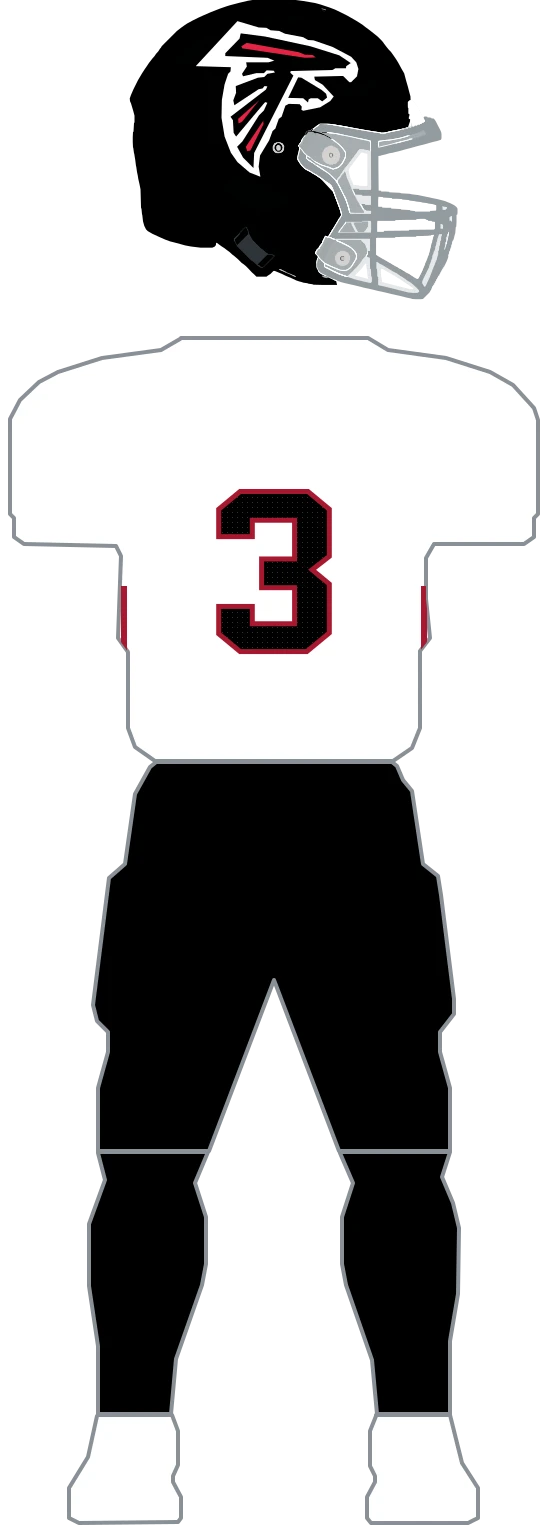
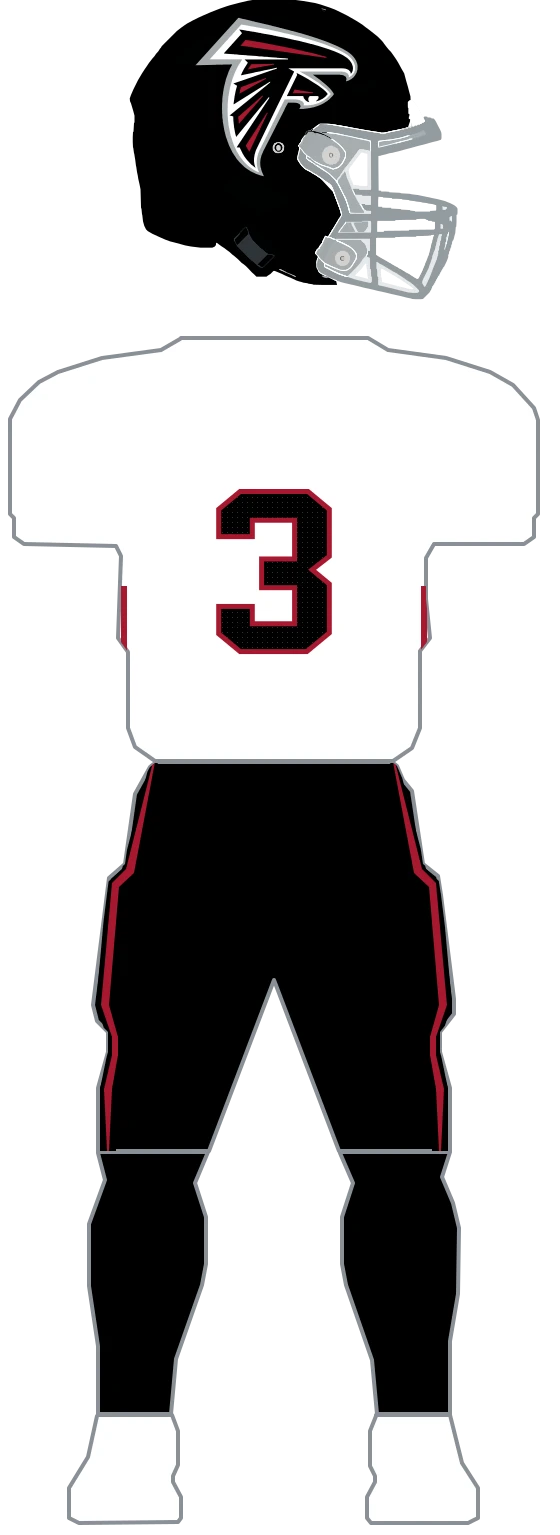
fix(uniforms): complete Falcons accuracy pass (#793)

diff --git a/web/lib/uniforms/teams/falcons.ts b/web/lib/uniforms/teams/falcons.ts
@@ -34,10 +34,14 @@ export const FALCONS_SIDE_STRIPE_RIGHT = 'M441,631 H447 V806 H441 Z';
 // All three archived kits wear a black shell, so the body layer is redundant on every one of them
 // today. It is authored anyway: it costs one path and it is what keeps the mark correct if a
 // non-black shell is ever added, which is exactly the check Jacksonville's spots failed.
-export const FALCONS_DECAL_RED = '#E12444'; // sampled (225,36,68)
+//
+// The regenerated standalone mark adds the silver outer rim and preserves the full red detail set.
+export const FALCONS_DECAL_RED = '#A71930'; // standalone mark's red
+export const FALCONS_DECAL_SILVER_PATH =
+  'M355.9,103.7 L357.5,103.7 L364.6,105.7 L370.6,106.8 L384.8,110.5 L386.1,110.5 L389.7,111.6 L422.4,119.2 L424.6,120.0 L430.3,121.2 L440.4,124.0 L442.6,124.2 L443.7,124.8 L446.9,125.4 L448.0,125.9 L450.2,126.2 L451.3,126.8 L453.5,127.1 L455.7,127.9 L456.7,127.9 L463.0,129.9 L464.1,129.9 L488.1,136.6 L509.9,143.4 L527.1,149.3 L539.6,154.1 L554.6,160.5 L566.3,166.4 L574.8,171.5 L582.2,177.1 L587.6,183.0 L591.4,188.9 L593.9,195.4 L594.7,200.4 L594.4,207.5 L593.3,210.6 L593.1,212.5 L589.5,219.0 L586.8,222.4 L582.4,226.0 L576.7,229.1 L572.1,230.5 L571.5,230.5 L571.5,230.0 L572.6,225.5 L571.0,221.5 L565.8,218.4 L557.4,217.3 L505.8,217.3 L505.5,217.6 L519.2,227.4 L532.8,238.7 L539.4,245.1 L543.4,249.9 L547.0,255.3 L547.3,256.4 L544.3,260.3 L538.3,266.5 L534.4,269.6 L527.1,274.4 L521.6,277.2 L514.0,280.3 L507.7,282.3 L499.0,284.2 L485.4,285.9 L478.0,285.9 L480.5,281.4 L480.5,280.0 L479.1,276.6 L474.5,274.1 L472.6,273.8 L467.1,273.3 L455.7,273.3 L450.5,282.8 L447.5,289.3 L406.3,370.0 L402.2,379.5 L400.3,387.7 L400.3,390.8 L400.0,391.1 L400.0,396.7 L400.6,401.8 L401.7,405.4 L401.7,406.5 L403.6,412.2 L407.4,420.6 L398.7,418.3 L391.6,415.8 L380.7,410.5 L372.5,405.1 L368.1,401.8 L358.3,392.2 L353.1,386.0 L344.4,372.8 L337.6,359.0 L331.6,342.4 L328.1,328.7 L325.1,311.2 L325.1,308.7 L324.2,303.4 L324.0,295.5 L323.7,295.2 L323.7,287.0 L323.4,286.8 L323.7,273.3 L324.0,273.0 L324.2,264.8 L325.1,257.2 L327.2,243.5 L331.6,225.7 L337.0,210.6 L340.6,203.0 L343.9,197.1 L343.6,196.8 L339.5,196.8 L339.2,197.1 L325.6,197.1 L325.3,197.4 L312.2,197.4 L312.0,197.6 L270.5,198.5 L355.9,104.0 Z';
 export const FALCONS_DECAL_SILHOUETTE_PATH =
-  'M354.4,110.3 L396.8,122.9 L412.1,123.6 L420.5,128.5 L437.8,129.9 L449.7,135.5 L485.8,142.4 L495.5,148.0 L506.6,148.7 L544.9,162.0 L581.7,181.5 L592.1,192.7 L596.3,205.9 L593.5,220.6 L581.7,232.4 L578.2,232.4 L565.7,219.9 L508.0,221.3 L509.4,228.2 L524.7,237.3 L546.9,261.0 L540.0,270.1 L519.8,282.6 L485.8,289.6 L482.3,287.5 L483.0,281.3 L478.8,276.4 L457.3,275.7 L450.3,279.2 L442.7,301.5 L437.1,305.7 L430.2,325.2 L424.6,330.1 L417.7,348.9 L399.6,378.9 L396.8,401.2 L400.3,421.5 L378.8,413.1 L354.4,392.2 L341.2,373.3 L328.7,341.2 L322.5,303.6 L323.2,268.0 L328.7,236.6 L335.7,215.7 L340.5,210.8 L341.2,202.4 L271.0,200.3 L353.7,111.0 Z';
+  'M361.9,117.2 L374.9,119.2 L376.6,119.7 L386.1,121.2 L389.1,122.0 L405.2,124.8 L421.8,128.2 L423.2,128.7 L425.9,129.0 L432.5,130.7 L433.8,130.7 L449.9,134.7 L451.3,134.7 L482.6,142.5 L487.8,144.2 L488.9,144.2 L490.8,145.1 L493.8,145.6 L509.9,150.4 L530.1,157.1 L549.4,164.7 L559.8,169.5 L568.8,174.3 L576.4,179.6 L583.0,186.1 L587.1,192.6 L589.5,199.3 L589.8,206.9 L587.6,213.4 L583.0,219.0 L577.3,222.9 L577.0,218.2 L574.5,214.8 L572.9,213.7 L568.0,211.7 L565.0,211.7 L562.3,211.1 L479.9,211.1 L479.6,211.4 L498.2,221.8 L517.3,234.2 L531.4,245.4 L538.0,252.2 L541.0,256.1 L535.3,262.3 L531.4,265.7 L523.3,271.0 L518.1,273.5 L512.6,275.5 L506.4,277.2 L499.5,278.3 L487.0,278.9 L487.3,275.0 L484.8,271.3 L477.7,267.6 L475.3,267.6 L470.6,266.8 L449.1,266.8 L448.8,267.1 L419.4,326.1 L418.3,328.9 L398.9,368.0 L395.9,375.0 L393.5,384.9 L392.9,392.8 L393.2,393.0 L393.2,397.3 L394.0,402.0 L395.9,408.8 L397.6,412.7 L393.8,411.3 L385.9,407.1 L375.5,399.5 L366.8,390.8 L358.9,380.4 L353.1,370.8 L348.5,361.3 L345.0,352.3 L340.3,337.1 L336.8,319.4 L335.4,308.4 L335.4,304.8 L334.9,300.5 L334.6,282.5 L334.9,282.3 L334.9,276.9 L335.1,276.6 L335.1,273.0 L336.2,262.0 L339.2,244.6 L343.9,227.4 L349.6,212.3 L355.9,199.6 L364.0,186.9 L363.8,186.7 L298.9,186.7 L361.6,117.5 Z';
 export const FALCONS_DECAL_BODY_PATH =
-  'M361.4,134.8 L409.3,141.0 L500.4,160.6 L558.1,178.7 L581.0,194.1 L572.0,200.3 L571.3,204.5 L550.4,204.5 L544.2,208.0 L460.8,210.1 L460.1,213.6 L466.3,219.2 L387.8,374.0 L386.4,404.0 L365.6,383.1 L353.7,361.5 L364.2,351.0 L397.5,298.7 L407.3,288.9 L414.2,273.6 L410.0,272.2 L407.3,275.0 L351.7,341.2 L346.8,333.6 L345.4,308.5 L340.5,301.5 L411.4,247.1 L414.2,240.8 L408.6,240.1 L404.5,245.0 L396.8,246.4 L348.2,278.5 L346.1,268.7 L351.7,253.4 L351.0,240.1 L395.4,223.4 L408.0,222.0 L414.2,215.7 L429.5,212.9 L426.7,209.4 L412.8,208.7 L407.3,214.3 L392.0,214.3 L365.6,220.6 L363.5,215.7 L373.2,201.0 L371.8,192.7 L416.3,192.7 L428.1,189.2 L414.2,183.6 L330.1,180.1 L330.1,174.5 L358.6,145.2 L360.7,135.5 Z M476.1,222.7 L482.3,223.4 L522.6,247.8 L531.7,255.4 L533.7,263.1 L524.0,270.8 L515.0,264.5 L501.1,264.5 L496.9,266.6 L495.5,272.9 L485.8,264.5 L455.9,263.8 L475.4,223.4 Z';
+  'M358.0,127.1 L365.1,127.9 L375.2,129.9 L377.1,129.9 L380.4,130.7 L388.6,131.8 L398.1,133.8 L399.8,133.8 L402.8,134.7 L425.1,138.6 L427.8,139.4 L430.8,139.7 L432.2,140.3 L449.9,143.6 L456.5,145.3 L457.8,145.3 L460.3,146.2 L478.8,150.1 L500.1,155.5 L501.2,156.0 L502.3,156.0 L516.5,160.0 L534.4,165.6 L546.2,169.8 L557.1,174.3 L565.5,178.5 L574.0,184.1 L579.2,189.2 L582.7,194.5 L584.9,200.2 L585.4,204.4 L584.9,209.4 L583.3,213.1 L581.1,215.6 L580.3,211.7 L576.7,207.8 L571.5,205.5 L565.5,204.7 L457.0,204.7 L456.7,204.9 L457.0,205.2 L466.6,210.3 L467.6,211.1 L467.6,211.7 L431.4,285.6 L391.3,368.6 L388.6,377.6 L387.5,385.5 L387.5,391.1 L388.3,396.7 L390.5,403.7 L381.5,396.7 L372.8,387.1 L368.1,380.7 L364.9,375.3 L359.1,363.5 L358.6,363.0 L352.9,362.7 L352.9,362.4 L417.8,264.5 L418.0,264.0 L417.8,262.6 L417.5,262.3 L416.9,262.6 L351.8,341.9 L351.5,341.9 L351.5,340.7 L349.9,334.8 L347.7,322.8 L346.3,309.8 L346.0,301.1 L345.2,300.5 L344.1,300.5 L340.9,299.4 L338.7,299.1 L338.7,298.9 L419.1,233.6 L419.7,233.1 L419.9,231.7 L419.7,231.4 L418.8,231.7 L347.1,276.6 L346.6,276.6 L346.9,273.8 L348.8,260.1 L351.2,248.2 L353.7,239.5 L346.3,235.0 L427.0,207.2 L427.8,207.2 L430.3,206.1 L431.1,206.1 L432.5,205.5 L433.6,203.8 L433.3,203.5 L431.1,203.8 L423.2,205.8 L420.5,206.1 L419.1,206.6 L407.1,208.9 L404.4,209.7 L403.0,209.7 L400.6,210.6 L389.7,212.5 L388.3,213.1 L361.3,218.7 L363.8,212.8 L367.6,205.5 L375.2,193.4 L368.7,186.9 L455.1,186.9 L455.9,185.5 L455.1,185.0 L452.4,185.0 L452.1,184.7 L433.8,183.6 L433.6,183.3 L419.7,182.4 L412.8,181.6 L408.8,181.6 L402.2,180.8 L398.1,180.8 L391.3,179.9 L373.0,178.8 L372.8,178.5 L358.9,177.7 L352.0,176.8 L348.0,176.8 L347.7,176.5 L334.1,175.7 L327.0,174.9 L363.5,134.4 L358.0,127.3 Z M472.3,213.7 L481.3,218.2 L494.4,225.5 L515.9,239.0 L527.4,247.7 L532.0,252.2 L535.0,256.1 L530.1,261.5 L524.9,265.4 L518.1,268.8 L510.7,271.0 L514.8,267.1 L516.5,264.3 L516.7,263.7 L516.5,260.9 L514.5,260.1 L499.0,260.1 L496.8,262.9 L496.0,265.7 L496.3,268.8 L498.2,272.4 L493.8,271.0 L490.8,268.8 L487.3,264.5 L485.9,260.1 L453.2,260.1 L473.6,218.4 L473.6,217.3 L472.6,213.9 Z';
 export const FALCONS_DECAL_STREAKS_PATH =
-  'M372.5,153.6 L476.8,172.4 L489.3,177.3 L505.2,178.0 L510.8,182.9 L489.3,183.6 L364.2,164.8 L362.1,160.6 L371.8,154.3 Z M405.9,309.9 L406.6,316.1 L380.2,369.2 L373.9,370.5 L371.1,361.5 L405.2,310.6 Z M398.2,268.0 L363.5,311.9 L356.5,314.7 L355.8,305.7 L397.5,268.7 Z';
+  'M370.6,147.9 L381.2,149.3 L382.9,149.8 L386.1,150.1 L413.1,154.9 L422.1,156.9 L423.8,156.9 L432.5,158.8 L439.6,160.0 L440.9,160.5 L448.0,161.6 L452.1,162.8 L453.5,162.8 L456.2,163.6 L457.6,163.6 L474.5,167.5 L475.8,167.5 L478.3,168.4 L479.6,168.4 L482.1,169.2 L484.6,169.5 L487.0,170.4 L504.7,174.3 L524.1,179.4 L532.8,181.9 L532.3,183.3 L529.8,183.6 L520.0,181.9 L509.9,180.8 L506.1,179.9 L504.2,179.9 L498.2,178.8 L480.5,176.5 L478.6,176.0 L476.4,176.0 L472.6,175.1 L468.5,174.9 L464.7,174.0 L462.5,174.0 L445.0,171.2 L442.8,171.2 L439.0,170.4 L434.9,170.1 L431.1,169.2 L428.9,169.2 L423.2,168.1 L421.3,168.1 L417.2,167.3 L405.5,165.9 L403.6,165.3 L401.4,165.3 L397.6,164.5 L395.4,164.5 L389.7,163.3 L387.5,163.3 L383.7,162.5 L381.5,162.5 L379.6,161.9 L360.5,159.4 L370.3,148.1 Z M413.7,292.7 L414.8,294.4 L414.5,295.2 L413.9,295.8 L378.5,371.1 L378.2,371.4 L376.6,369.1 L370.9,359.3 L413.7,292.9 Z M404.9,258.6 L405.2,260.6 L404.4,261.7 L358.6,314.3 L357.5,315.4 L357.2,314.9 L355.9,301.7 L404.7,258.9 Z M411.2,223.8 L412.0,223.8 L411.2,225.7 L358.6,255.3 L358.3,255.3 L358.9,252.2 L361.0,242.6 L367.0,240.1 L370.9,239.0 L377.7,236.2 L410.9,224.1 Z M424.6,195.4 L428.4,195.4 L427.6,196.8 L426.8,197.4 L403.8,201.3 L400.8,202.1 L399.2,202.1 L376.3,206.6 L375.5,206.6 L375.8,206.1 L381.5,197.1 L382.0,196.5 L424.3,195.7 Z M468.7,247.1 L484.0,249.6 L485.9,249.6 L489.5,250.5 L491.4,250.5 L494.9,251.3 L498.7,251.6 L502.3,252.5 L505.8,252.7 L505.3,254.4 L464.9,254.4 L468.5,247.4 Z';

diff --git a/web/lib/uniforms/teams/falcons.parts.ts b/web/lib/uniforms/teams/falcons.parts.ts
@@ -1,18 +1,11 @@
-// Atlanta authored as composable parts. Geometry is imported unchanged from falcons.ts — this
-// file only restates WHICH parts each kit combines, and names every color from the team palette
-// instead of the kit row's shifting primary/secondary/accent.
-//
-// What the flat definition was hiding: all three Atlanta kits wear the SAME helmet (black shell,
-// the fixed white/black/red falcon decal) and the SAME black pants, and differ only in the
-// jersey. The flat form spelled the helmet decal and the side-seam piping set out in every kit's
-// layer array, three times over.
-//
-// The away kit's black shell/pants come through a literal '#000000' in the flat form because its
-// curated palette resolves secondary AND accent to the brand red (#A71930); here it is one palette
-// entry shared by all three kits, and the question cannot arise.
+// Atlanta's shared helmet, jerseys and pants for the native uniform archive (DEP-478).
+// The four-color falcon is fixed helmet art. Home and away retain canonical black pants
+// while exposing the reference's white option; the historical red alternate remains black.
+// Colors belong to named parts, independent of the jersey-relative palette slots.
 
 import {
   FALCONS_DECAL_BODY_PATH,
+  FALCONS_DECAL_SILVER_PATH,
   FALCONS_DECAL_RED,
   FALCONS_DECAL_SILHOUETTE_PATH,
   FALCONS_DECAL_STREAKS_PATH,
@@ -46,6 +39,7 @@ const HELMET_BLACK_FALCON: UniformPart = {
   base: 'black',
   facemask: 'silver',
   layers: [
+    fill('falcons-decal-silver', 'helmet', FALCONS_DECAL_SILVER_PATH, 'silver'),
     fill('falcons-decal-silhouette', 'helmet', FALCONS_DECAL_SILHOUETTE_PATH, 'white'),
     fill('falcons-decal-body', 'helmet', FALCONS_DECAL_BODY_PATH, 'black'),
     fill('falcons-decal-streaks', 'helmet', FALCONS_DECAL_STREAKS_PATH, 'decalRed'),
@@ -75,14 +69,46 @@ const JERSEY_RED: UniformPart = {
   number: { fill: 'white', outline: 'black', outlineWidth: 10 },
 };
 
-// Plain black pants. Atlanta's construction is the sparest of any team: no stripe, no band.
-const PANTS_BLACK: UniformPart = { base: 'black', layers: [] };
+// The 2025 reference side swatch has a tapered red center with black keylines. Follow the
+// mannequin leg edge and stop at the pant hem (y=1196), before the socks begin.
+function pantsStripes(): PartLayer[] {
+  return [
+    fill(
+      'falcons-pants-backing-left',
+      'leg-left',
+      'M170,807 L178,807 L158,918 L143,932 L132,1050 L143,1082 L143,1100 L136,1134 L136,1196 L120,1196 L120,1134 L127,1100 L127,1082 L116,1050 L127,928 L142,914 Z',
+      'black'
+    ),
+    fill(
+      'falcons-pants-backing-right',
+      'leg-right',
+      'M418,807 L410,807 L430,918 L445,932 L456,1050 L445,1082 L445,1100 L452,1134 L452,1196 L468,1196 L468,1134 L461,1100 L461,1082 L472,1050 L461,928 L446,914 Z',
+      'black'
+    ),
+    fill(
+      'falcons-pants-stripe-left',
+      'leg-left',
+      'M173,807 L175,807 L154,918 L139,932 L129,1050 L138,1082 L138,1100 L132,1134 L129,1196 L127,1196 L124,1134 L132,1100 L132,1082 L121,1050 L132,928 L146,914 Z',
+      'red'
+    ),
+    fill(
+      'falcons-pants-stripe-right',
+      'leg-right',
+      'M415,807 L413,807 L434,918 L449,932 L459,1050 L450,1082 L450,1100 L456,1134 L459,1196 L461,1196 L464,1134 L456,1100 L456,1082 L467,1050 L456,928 L442,914 Z',
+      'red'
+    ),
+  ];
+}
+
+// Black pants are canonical; white pants are the alternate option shown with the same side seam.
+const PANTS_BLACK: UniformPart = { base: 'black', layers: pantsStripes() };
+const PANTS_WHITE: UniformPart = { base: 'white', layers: pantsStripes() };
 
 export const FALCONS_PARTS: TeamPartsDefinition = {
   teamId: 'falcons',
   // Jersey hexes from the curated rows (teamcolorcodes); the away and red-alt rows share this
   // same palette through different primary/secondary/accent slots, which is the point. `silver`
-  // is the facemask color only — the 2020 "back to black" redesign's matte shell carries a
+  // also supplies the decal outer border. The 2020 "back to black" redesign's matte shell carries a
   // silver/chrome cage (atlantafalcons.com unveiling, 2020; still current in the 2026 redesign),
   // and the GUD composite renders it as the mid-grey #909090 at 8-bit. Silver is Falcons silver
   // PMS 877 C / #A5ACAF (teamcolorcodes).
@@ -92,7 +118,7 @@ export const FALCONS_PARTS: TeamPartsDefinition = {
     // The brand red trailing the side piping and numerals — the same physical color whether it
     // reaches home through 'primary' or away/red-alt through their own tokens.
     red: '#A71930',
-    // The decal's red streak, a fixed-art sampled color distinct from the jersey red.
+    // The standalone mark supplies its fixed red independently of kit palette roles.
     decalRed: FALCONS_DECAL_RED,
     silver: '#A5ACAF',
   },
@@ -102,10 +128,10 @@ export const FALCONS_PARTS: TeamPartsDefinition = {
     white: JERSEY_WHITE,
     red: JERSEY_RED,
   },
-  pants: { black: PANTS_BLACK },
+  pants: { black: PANTS_BLACK, white: PANTS_WHITE },
   kits: {
-    home: { helmet: 'black-falcon', jersey: 'black', pants: 'black' },
-    away: { helmet: 'black-falcon', jersey: 'white', pants: 'black' },
+    home: { helmet: 'black-falcon', jersey: 'black', pants: ['black', 'white'] },
+    away: { helmet: 'black-falcon', jersey: 'white', pants: ['black', 'white'] },
     'red-alt': { helmet: 'black-falcon', jersey: 'red', pants: 'black' },
   },
 };

diff --git a/web/scripts/uniform-draw/falcons_mark.py b/web/scripts/uniform-draw/falcons_mark.py
@@ -1,0 +1,61 @@
+"""Emit the Falcons helmet decal from the standalone club-mark reference (DEP-478).
+
+The non-free trademarked Wikipedia ``File:Atlanta Falcons logo.svg`` supplies
+linework. The reference remains outside the repository. The 2025 helmet sheet
+supplies placement: the mark spans approximately x77..129, y27..77 against a
+shell at x56..146, y21..111. Those shell-relative bounds map to the raw mannequin
+shell x139..701.5, y65..637.4. Silver, white, black and red are retained separately;
+the previous small composite trace lost the silver border and several feathers.
+
+Run this script to print paths, or pass --check to verify the committed module.
+"""
+
+import subprocess
+import sys
+import tempfile
+from pathlib import Path
+
+from PIL import Image
+
+sys.path.insert(0, str(Path(__file__).resolve().parent))
+from drawkit import Box, fill_holes, main, trace  # noqa: E402
+
+REF = Path.home() / 'Documents/GitHubProjects/nfl-uniform-refs/falcons/falcons-mark.svg'
+MODULE = Path(__file__).resolve().parents[2] / 'lib/uniforms/teams/falcons.ts'
+BOX = Box(270.25, 103.16, 325.0, 318.0)
+COLORS = {'silver': (165, 172, 175), 'white': (255, 255, 255),
+          'black': (0, 0, 0), 'red': (167, 25, 48)}
+
+
+def build():
+    with tempfile.TemporaryDirectory() as tmp:
+        raster = Path(tmp) / 'mark.png'
+        subprocess.run(['magick', '-background', 'none', '-density', '600', str(REF),
+                        '-resize', '1200x1200', str(raster)], check=True)
+        im = Image.open(raster).convert('RGBA')
+        im = im.crop(im.getbbox())
+        w, h = im.size
+        labels = [[None] * w for _ in range(h)]
+        for y in range(h):
+            for x in range(w):
+                r, g, b, a = im.getpixel((x, y))
+                if a >= 128:
+                    labels[y][x] = min(COLORS, key=lambda k:
+                        sum((v - c) ** 2 for v, c in zip((r, g, b), COLORS[k])))
+
+    def emit(keys, solid=False):
+        mask = [[int(labels[y][x] in keys) for x in range(w)] for y in range(h)]
+        if solid:
+            mask = fill_holes(mask, w, h)
+        return trace(mask, w, h, BOX, eps=0.9, minsize=40)
+
+    return {
+        'FALCONS_DECAL_SILVER_PATH': emit(set(COLORS), True),
+        'FALCONS_DECAL_SILHOUETTE_PATH': emit({'white', 'black', 'red'}, True),
+        'FALCONS_DECAL_BODY_PATH': emit({'black', 'red'}),
+        'FALCONS_DECAL_STREAKS_PATH': emit({'red'}),
+    }
+
+
+if __name__ == '__main__':
+    main(build, MODULE)
